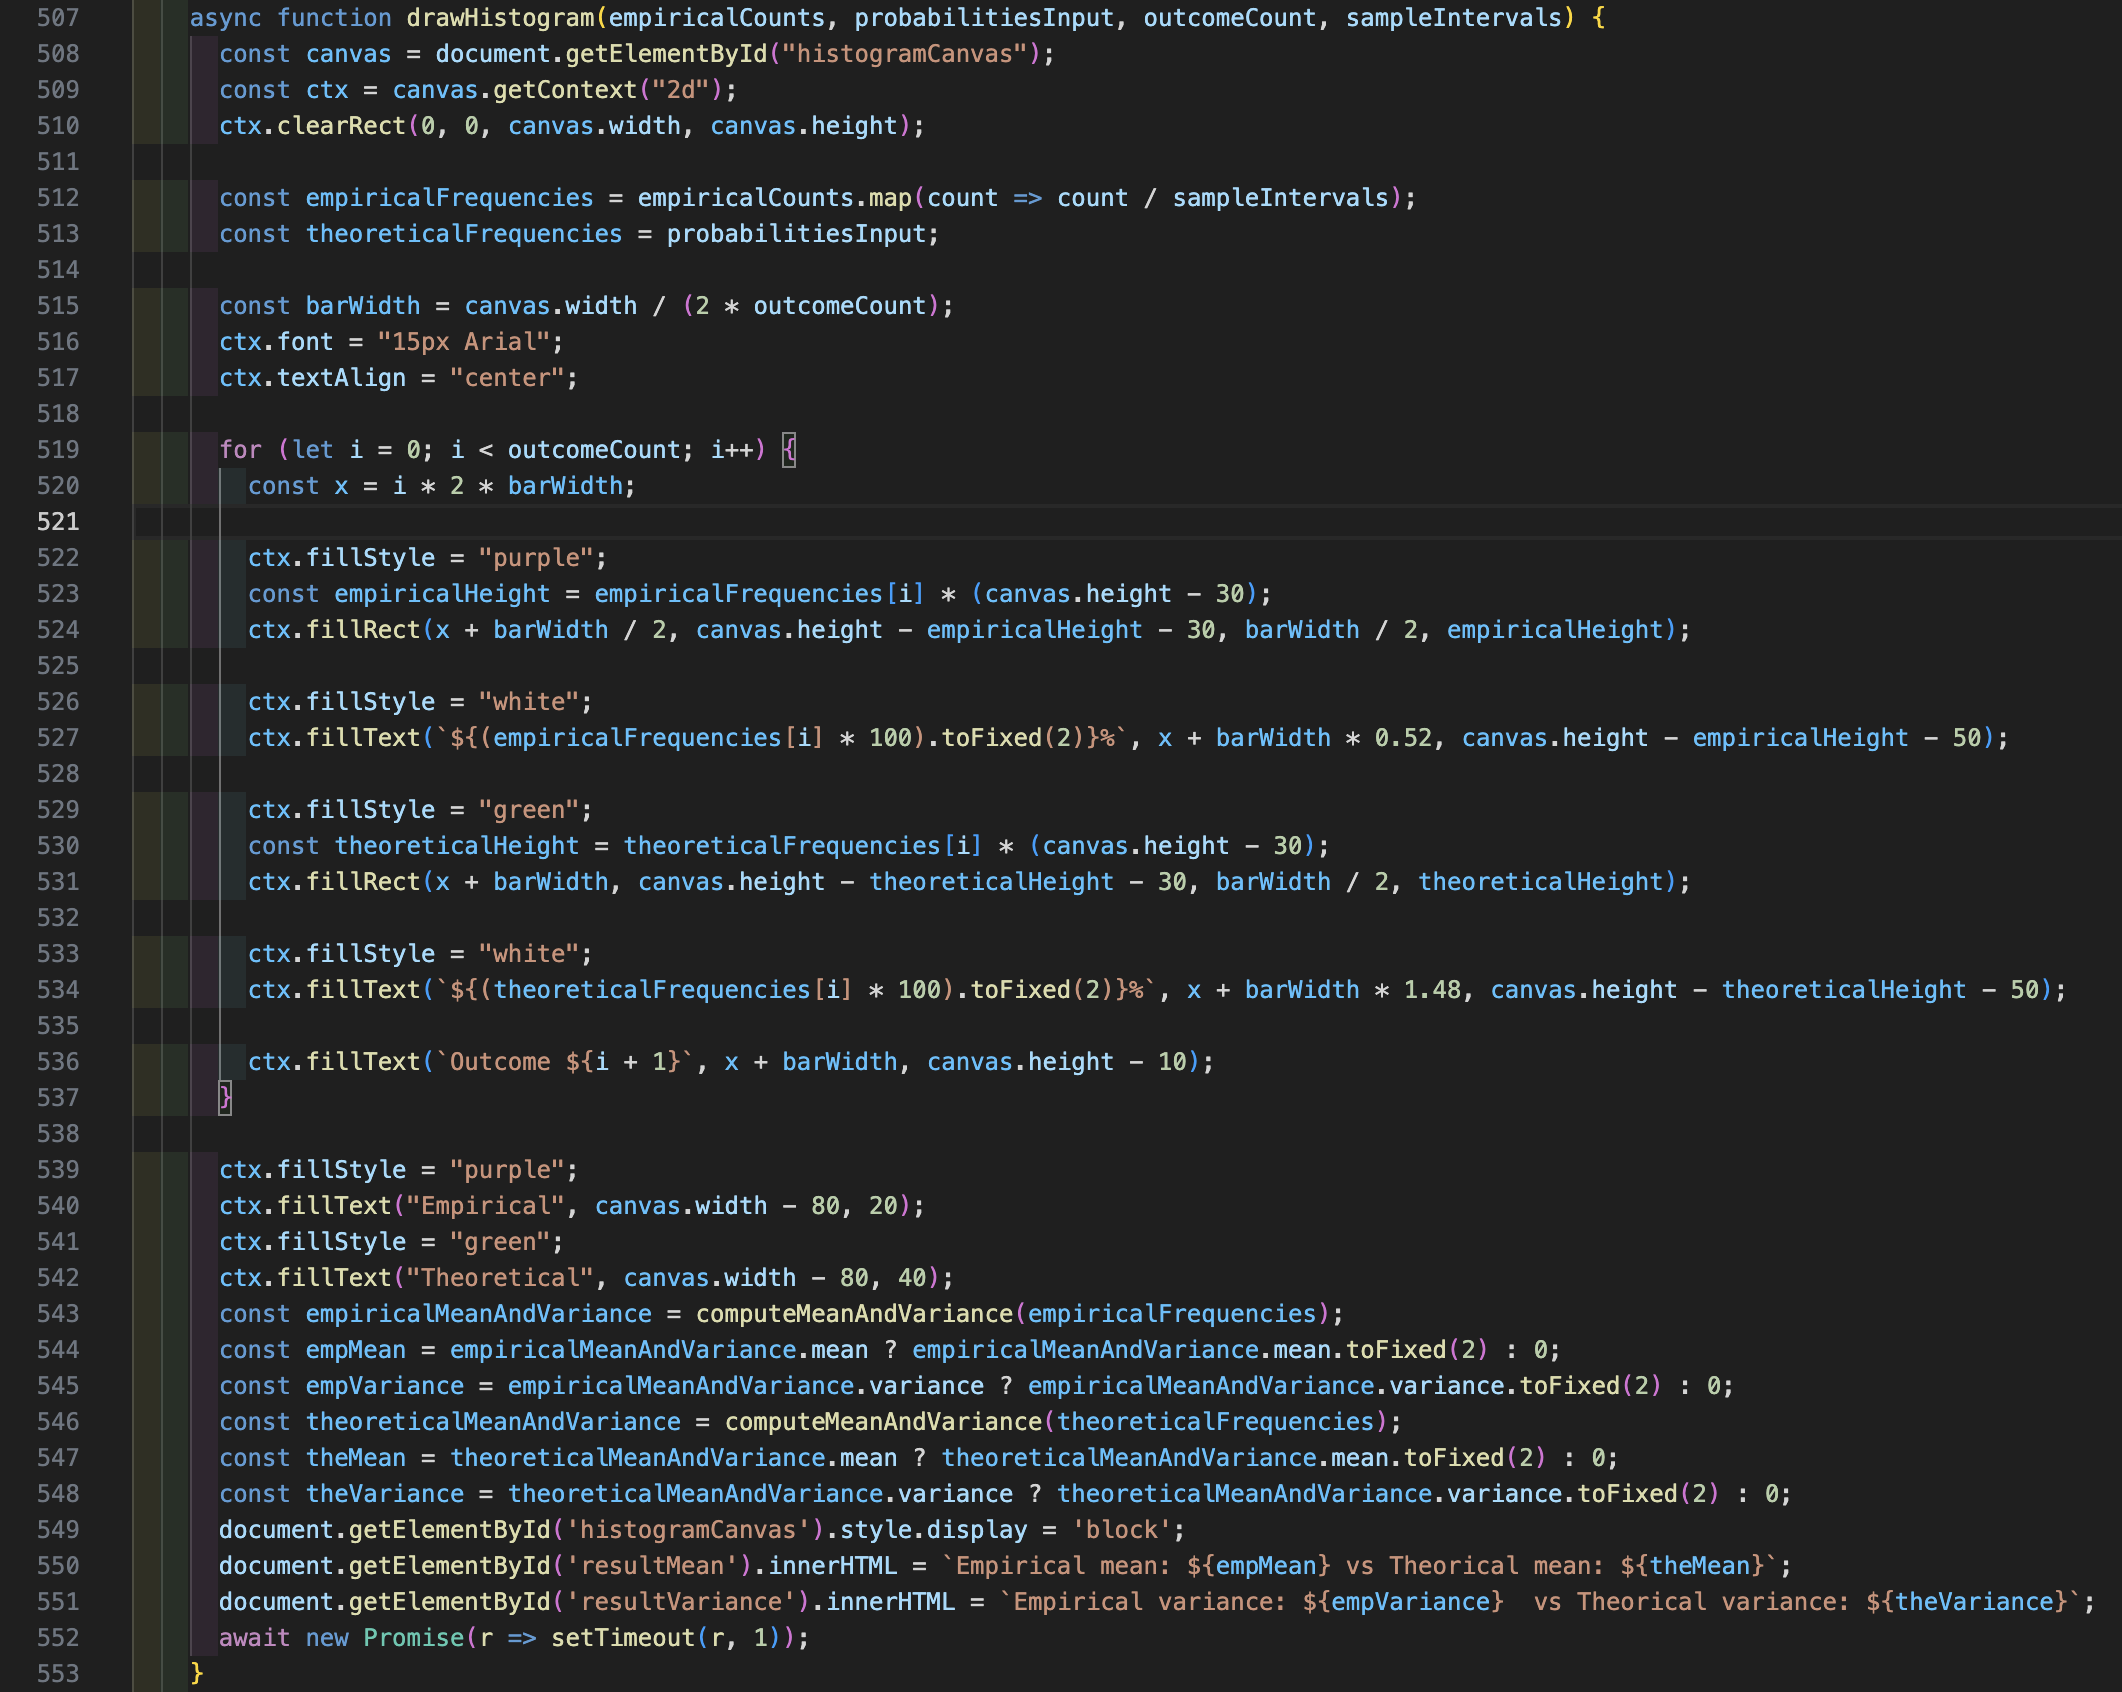
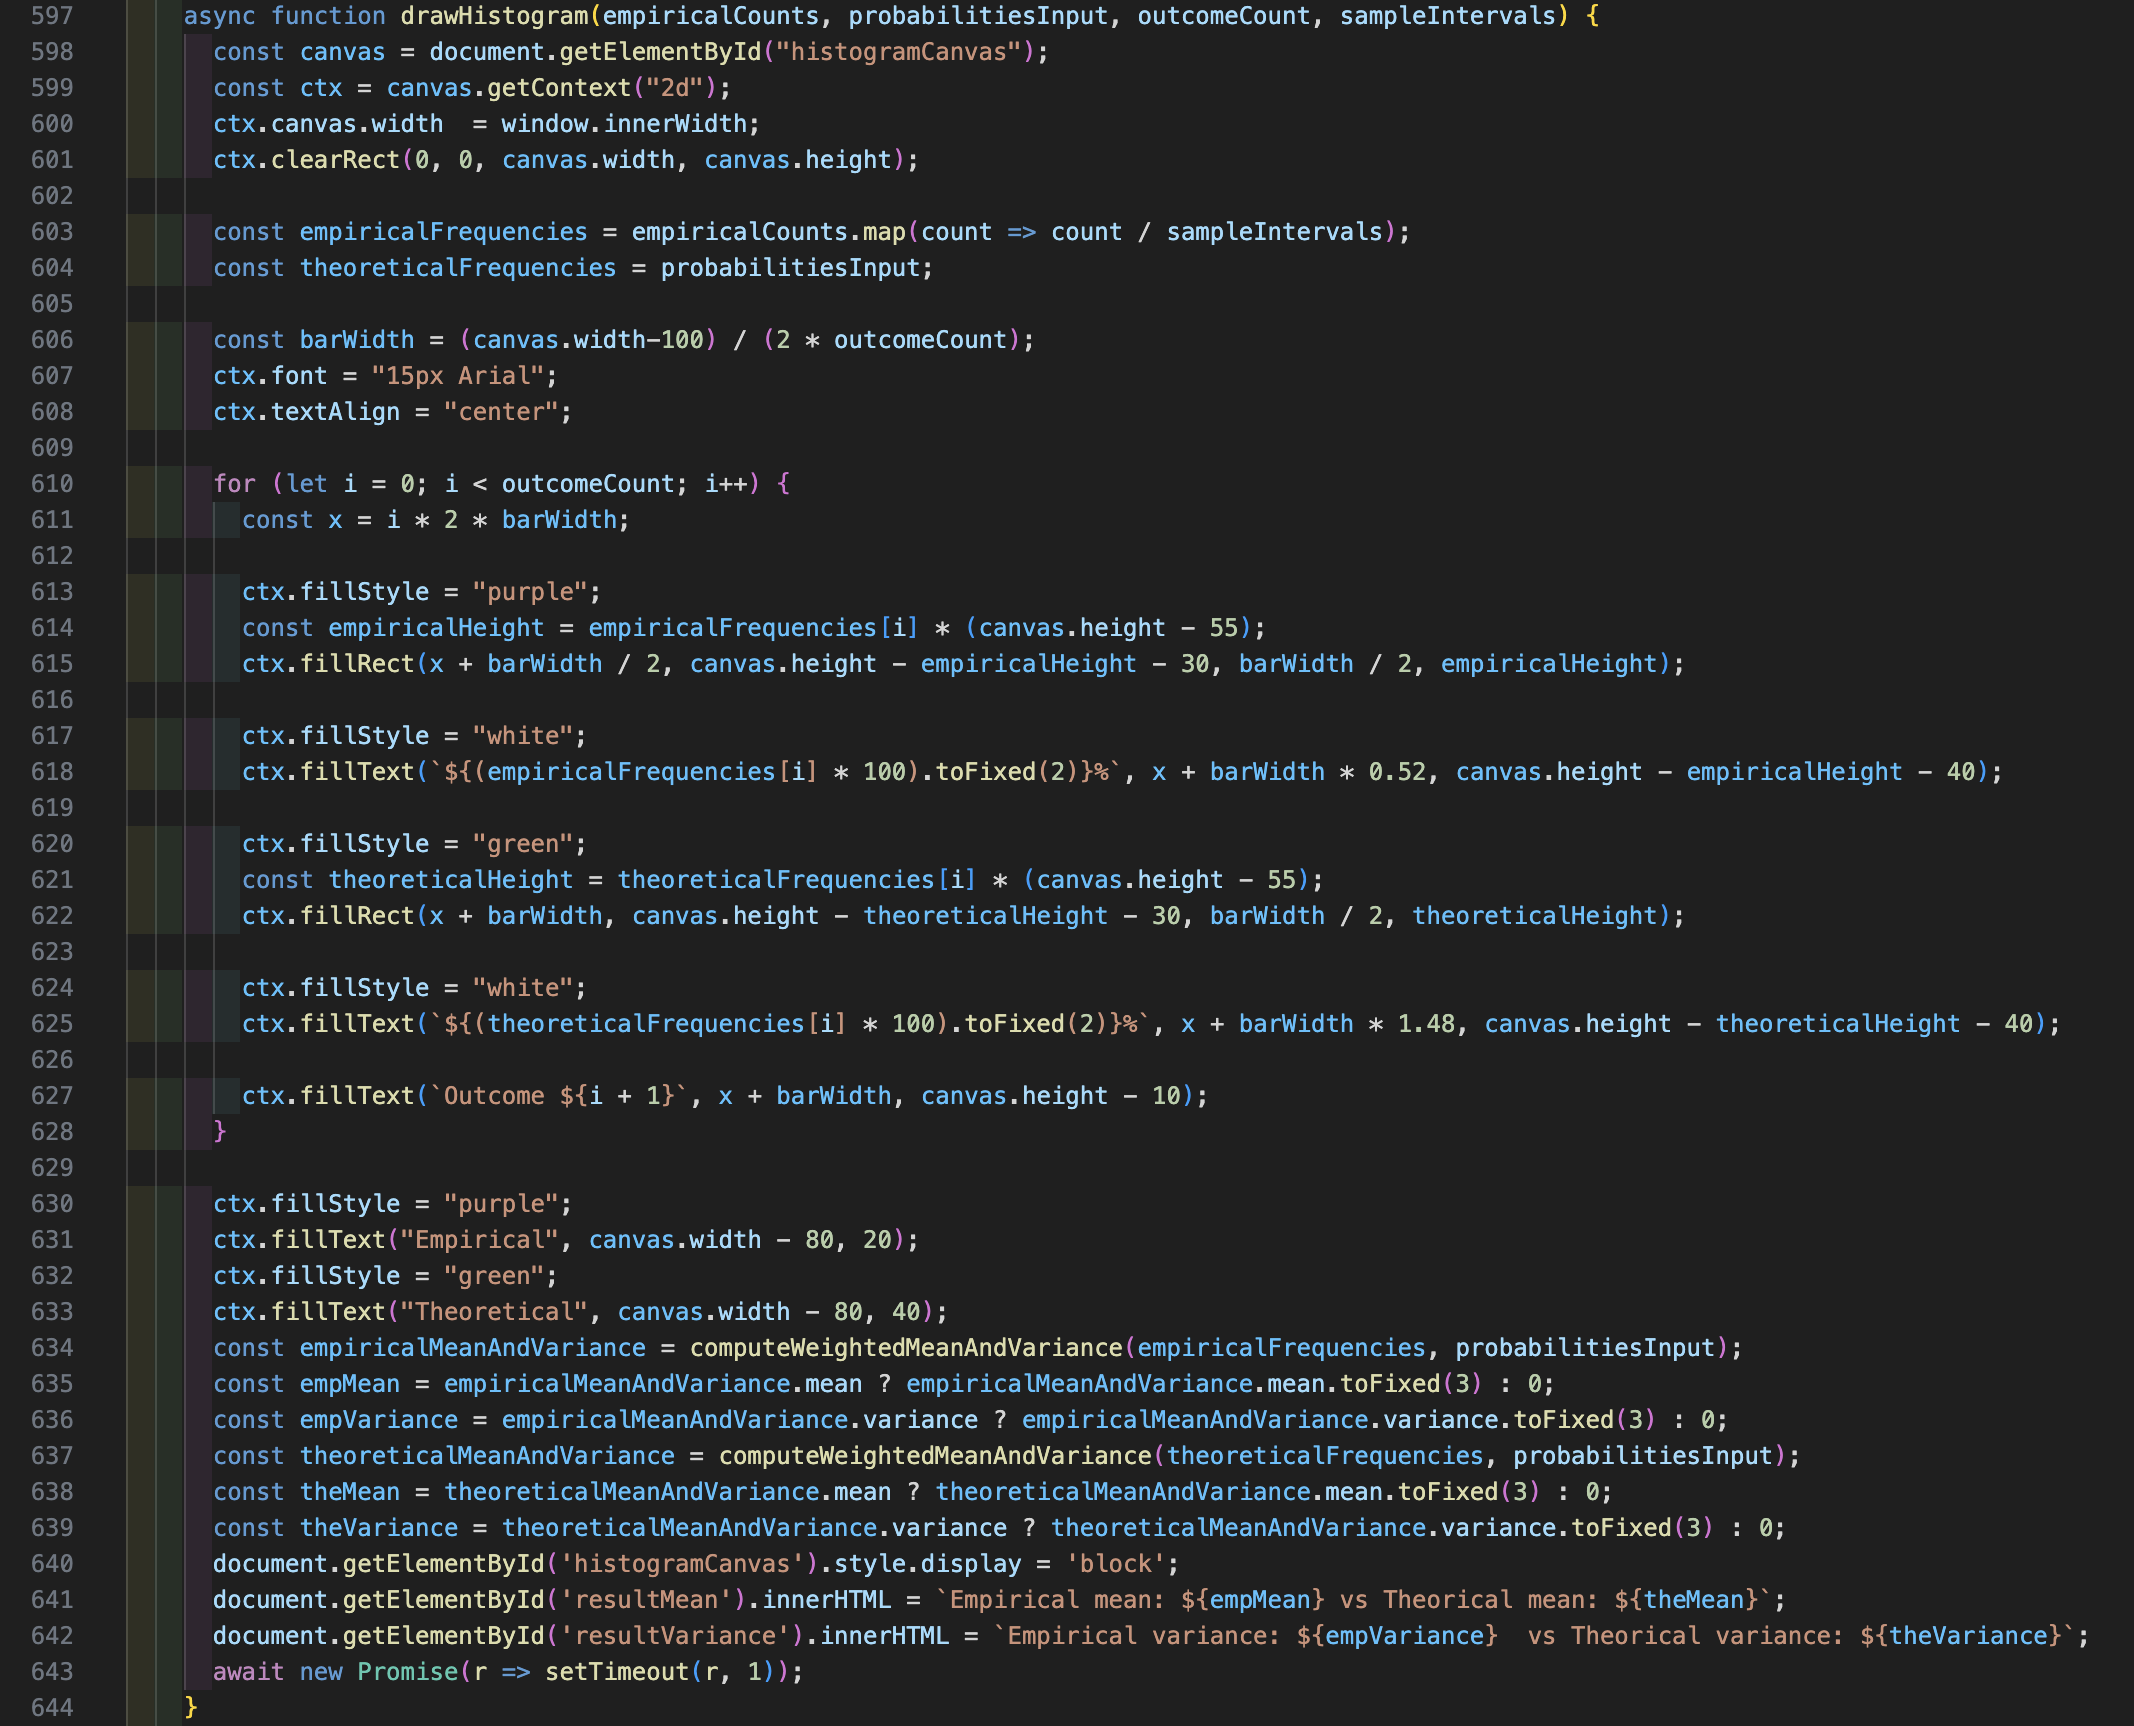
small changes

Changed region(s): [[0.0, 0.0, 0.9642, 1.0], [0.4976, 0.0922, 0.6532, 0.1537], [0.3421, 0.2459, 0.3732, 0.2766]]

diff --git a/hw6/hw6_practice.html b/hw6/hw6_practice.html
@@ -405,8 +405,6 @@
     #a-title {
       text-decoration: none
     }
-
-
   </style>
 
 </head>
@@ -435,14 +433,16 @@
         <button type="submit" class="btn btn-primary" onclick="createFields()">Create Fields</button>
 
         <div id="inputContainer"></div>
-        <br/>
-        <button id="randomizeButton" class="btn btn-secondary" onclick="randomizeFields()" style="display: none;">Randomize Fields</button>
-        <br/><br/>
+        <br />
+        <button id="randomizeButton" class="btn btn-secondary" onclick="randomizeFields()"
+          style="display: none;">Randomize Fields</button>
+        <br /><br />
         <p id="sumStatus">Sum: 0.00</p>
         <label>Samples:</label>
         <input type="number" style="width: 10%;" id="sampleIntervals" min="1" max="100000" value="10000">
         <br><br>
-        <button id="generateGraphButton" type="submit" class="btn btn-primary" disabled="true" onclick="generateHistogram()">Generate</button>
+        <button id="generateGraphButton" type="submit" class="btn btn-primary" disabled="true"
+          onclick="generateHistogram()">Generate</button>
       </div>
 
     </section>
@@ -458,8 +458,7 @@
         <p id="resultVariance" style="text-align: center; font-size: 20px;"></p>
       </b>
       <h1>Mean and Variance Analysis</h1>
-      <p>Has it can be seen, both the empirical mean and empirical variance, tends to be very close to the theoretical one for more
-        samples because of the law of large numbers, while for less samples it can be both bigger or smaller.
+      <p>As can be seen, the empirical mean and variance for large samples tend to be very close to the theoretical ones because of the law of large numbers, on the other hand, as the samples decrease, the difference between empirical and theoretical tends to grow.
       </p>
       <h1>Code Explanation</h1>
       <h2>Generating Chart</h2>
@@ -479,11 +478,18 @@
       <img src="./code-2.png">
       <h2>Computing Mean and Variance</h2>
       <p>
-        As for the previous homeworks, this function calculates the mean and variance using recursion.<br />
-        The idea is to gradually add up the values and update the average
-        step by step using the following formula: \[ \mu_n = \mu_{n-1} + \frac{x_n - \mu_{n-1}}{n} \]<br /><br />
-        It also calculate the variance in the same way using the following formula: \[ M_n = M_{n-1} + (x_n - \mu_n)(x_n
-        - \mu_{n-1}) \]<br /><br />
+        As for the previous homework, this function calculates the mean and variance using recursion.
+        The idea is to gradually add up the values while accounting for their associated probabilities, updating the
+        mean step by step using the following formula:
+        \[
+        \mu_n = \mu_{n-1} + p_n \cdot (x_n - \mu_{n-1})
+        \]
+        where \(p_n\) is the probability associated with \(x_n\).
+        The variance is updated in a similar way, using the formula:
+        \[
+        M_n = M_{n-1} + p_n \cdot (x_n - \mu_n)(x_n - \mu_{n-1})
+        \]
+        where M_n accumulates the weighted contribution to the variance.<br /><br />
         <img src="./code-3.png">
       </p>
       <br /><br />
@@ -510,100 +516,100 @@
   </script>
   <script>
     function computeWeightedMeanAndVariance(values, probabilities, index = 0, currentMean = 0, M2 = 0) {
-    if (index >= values.length) {
+      if (index >= values.length) {
         const variance = M2;
         return { mean: currentMean, variance: variance };
+      }
+      const value = values[index];
+      const prob = probabilities[index];
+
+      const delta = value - currentMean;
+      const newMean = currentMean + prob * delta;
+      const delta2 = value - newMean;
+      const newM2 = M2 + prob * delta * delta2;
+
+      return computeWeightedMeanAndVariance(values, probabilities, index + 1, newMean, newM2);
     }
-    const value = values[index];
-    const prob = probabilities[index];
-
-    const delta = value - currentMean;
-    const newMean = currentMean + prob * delta;
-    const delta2 = value - newMean;
-    const newM2 = M2 + prob * delta * delta2;
-
-    return computeWeightedMeanAndVariance(values, probabilities, index + 1, newMean, newM2);
-}
 
     function createFields() {
-			const numFields = document.getElementById('numFields').value;
-		
-			if (numFields < 2 || numFields > 10) {
-				alert("Please enter a number between 2 and 10.");
-				return;
-			}
-		
-			const container = document.getElementById('inputContainer');
-			container.innerHTML = "";
-			document.getElementById('sumStatus').innerText = "Sum: 0.00";
-			document.getElementById('generateGraphButton').disabled = true;
-			document.getElementById('randomizeButton').style.display = 'inline';
-		
-			for (let i = 0; i < numFields; i++) {
-				const input = document.createElement("input");
-				input.type = "number";
-				input.step = "0.01";
-				input.min = "0";
-				input.max = "100";
-        input.style.width="20%"
-				input.placeholder = `Probability ${i + 1}`;
-				input.oninput = validateSum;
-		
-				container.appendChild(input);
-				container.appendChild(document.createElement("br"));
-			}
-		}
-		
-		function randomizeFields() {
-			const inputs = document.querySelectorAll("#inputContainer input");
-			const numFields = inputs.length;
-			const randomValues = generateRandomProbabilities(numFields);
-		
-			inputs.forEach((input, index) => {
-				input.value = randomValues[index].toFixed(2);
-			});
-		
-			validateSum();
-		}
-		
-function generateRandomProbabilities(numFields) {
+      const numFields = document.getElementById('numFields').value;
 
-    let values = Array(numFields).fill(0).map(() => Math.random());
-    const sum = values.reduce((acc, val) => acc + val, 0);
-    values = values.map(val => val / sum);
+      if (numFields < 2 || numFields > 10) {
+        alert("Please enter a number between 2 and 10.");
+        return;
+      }
 
-    values = values.map(val => parseFloat(val.toFixed(2))); 
+      const container = document.getElementById('inputContainer');
+      container.innerHTML = "";
+      document.getElementById('sumStatus').innerText = "Sum: 0.00";
+      document.getElementById('generateGraphButton').disabled = true;
+      document.getElementById('randomizeButton').style.display = 'inline';
 
-    const roundedSum = values.reduce((acc, val) => acc + val, 0);
-    const difference = 1 - roundedSum;
-    values[values.length - 1] += parseFloat(difference.toFixed(4)); 
+      for (let i = 0; i < numFields; i++) {
+        const input = document.createElement("input");
+        input.type = "number";
+        input.step = "0.01";
+        input.min = "0";
+        input.max = "100";
+        input.style.width = "20%"
+        input.placeholder = `Probability ${i + 1}`;
+        input.oninput = validateSum;
 
-    return values;
-}
-		
-		function validateSum() {
-			const inputs = document.querySelectorAll("#inputContainer input");
-			let sum = 0;
-		
-			inputs.forEach(input => {
-				const value = parseFloat(input.value) || 0;
-				sum += value;
-			});
-		
-			document.getElementById('sumStatus').innerText = "Sum: " + sum.toFixed(2) + " should be 1";
-			document.getElementById('generateGraphButton').disabled = (sum.toFixed(2) !== "1.00");
-		}
+        container.appendChild(input);
+        container.appendChild(document.createElement("br"));
+      }
+    }
+
+    function randomizeFields() {
+      const inputs = document.querySelectorAll("#inputContainer input");
+      const numFields = inputs.length;
+      const randomValues = generateRandomProbabilities(numFields);
+
+      inputs.forEach((input, index) => {
+        input.value = randomValues[index].toFixed(2);
+      });
+
+      validateSum();
+    }
+
+    function generateRandomProbabilities(numFields) {
+
+      let values = Array(numFields).fill(0).map(() => Math.random());
+      const sum = values.reduce((acc, val) => acc + val, 0);
+      values = values.map(val => val / sum);
+
+      values = values.map(val => parseFloat(val.toFixed(2)));
+
+      const roundedSum = values.reduce((acc, val) => acc + val, 0);
+      const difference = 1 - roundedSum;
+      values[values.length - 1] += parseFloat(difference.toFixed(4));
+
+      return values;
+    }
+
+    function validateSum() {
+      const inputs = document.querySelectorAll("#inputContainer input");
+      let sum = 0;
+
+      inputs.forEach(input => {
+        const value = parseFloat(input.value) || 0;
+        sum += value;
+      });
+
+      document.getElementById('sumStatus').innerText = "Sum: " + sum.toFixed(2) + " should be 1";
+      document.getElementById('generateGraphButton').disabled = (sum.toFixed(2) !== "1.00");
+    }
 
     async function drawHistogram(empiricalCounts, probabilitiesInput, outcomeCount, sampleIntervals) {
       const canvas = document.getElementById("histogramCanvas");
       const ctx = canvas.getContext("2d");
-      ctx.canvas.width  = window.innerWidth;
+      ctx.canvas.width = window.innerWidth;
       ctx.clearRect(0, 0, canvas.width, canvas.height);
 
       const empiricalFrequencies = empiricalCounts.map(count => count / sampleIntervals);
       const theoreticalFrequencies = probabilitiesInput;
 
-      const barWidth = (canvas.width-100) / (2 * outcomeCount);
+      const barWidth = (canvas.width - 100) / (2 * outcomeCount);
       ctx.font = "15px Arial";
       ctx.textAlign = "center";
 
@@ -646,7 +652,7 @@ function generateRandomProbabilities(numFields) {
 
     async function generateHistogram() {
       const inputs = document.querySelectorAll("#inputContainer input");
-			const probabilitiesInput = Array.from(inputs).map(input => parseFloat(input.value) || 0);
+      const probabilitiesInput = Array.from(inputs).map(input => parseFloat(input.value) || 0);
       const outcomeCount = probabilitiesInput.length
       const sampleIntervals = parseInt(document.getElementById("sampleIntervals").value);
 
